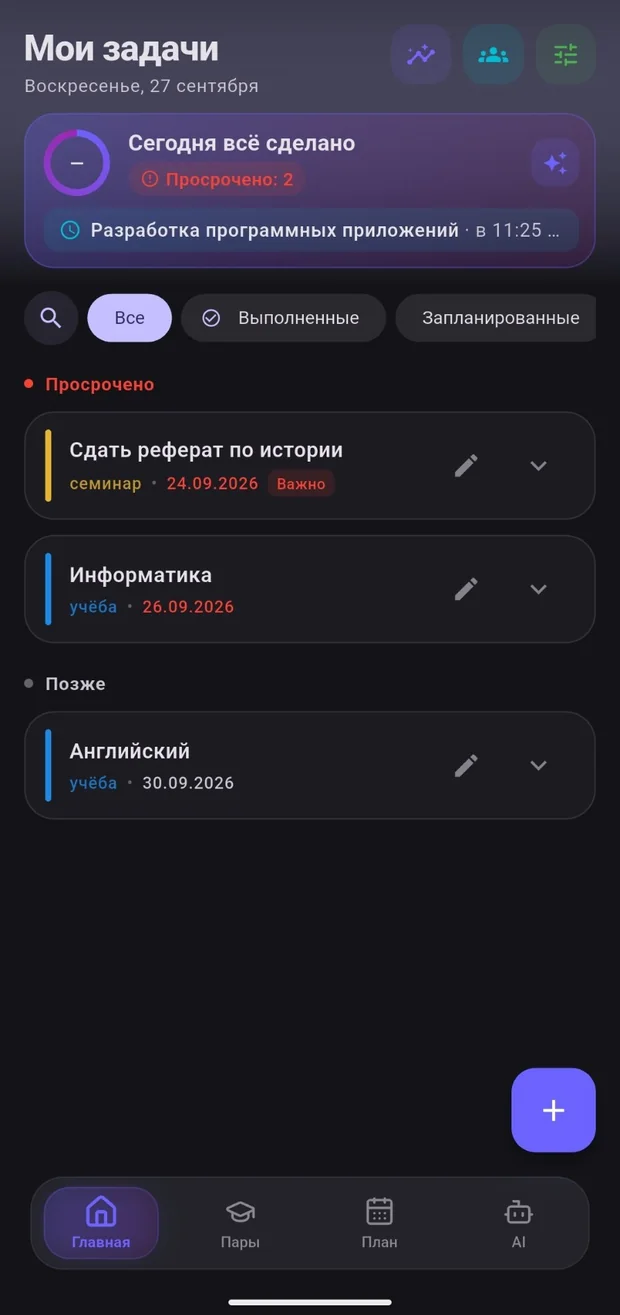
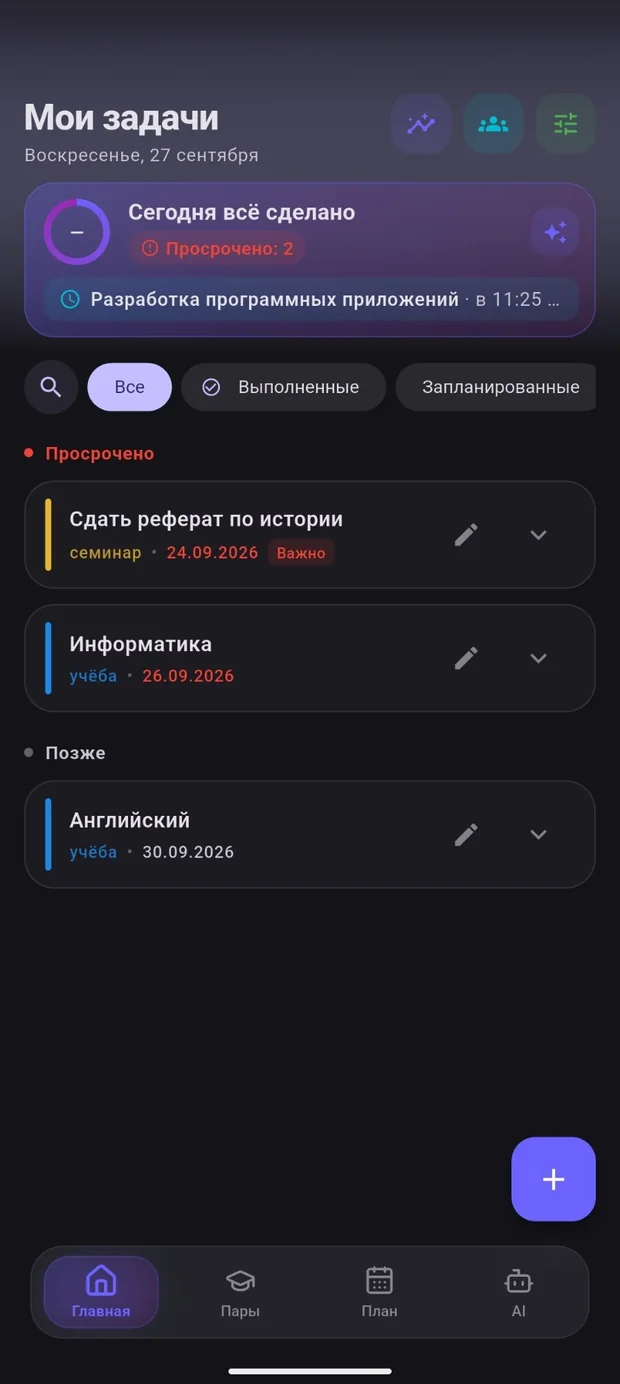
Новые скриншоты приложения, строка состояния закрашена
Четыре экрана в «Как это выглядит» заменены свежими: задачи с
просроченными, расписание на субботу, планировщик и ассистент, который
ставит задачу на завтра и показывает её карточкой. Строка состояния
телефона закрашена фоном экрана, как в ролике на первом экране.

diff --git a/index.html b/index.html
@@ -354,25 +354,25 @@
     <div class="shots">
       <div class="shot-slot">
         <figure class="shot">
-          <img src="assets/tasks.webp" alt="Экран «Мои задачи»: просроченные задачи и задачи на потом" loading="lazy" width="620" height="1315">
+          <img src="assets/tasks.webp" alt="Экран «Мои задачи»: просроченные задачи и задачи на потом" loading="lazy" width="620" height="1384">
           <figcaption>Мои задачи</figcaption>
         </figure>
       </div>
       <div class="shot-slot">
         <figure class="shot">
-          <img src="assets/schedule.webp" alt="Расписание пар группы на субботу" loading="lazy" width="620" height="1315">
+          <img src="assets/schedule.webp" alt="Расписание пар группы на субботу" loading="lazy" width="620" height="1384">
           <figcaption>Расписание вуза</figcaption>
         </figure>
       </div>
       <div class="shot-slot">
         <figure class="shot">
-          <img src="assets/planner.webp" alt="Планировщик: неделя и задачи на выбранный день" loading="lazy" width="620" height="1315">
+          <img src="assets/planner.webp" alt="Планировщик: неделя и задачи на выбранный день" loading="lazy" width="620" height="1384">
           <figcaption>Планировщик</figcaption>
         </figure>
       </div>
       <div class="shot-slot">
         <figure class="shot">
-          <img src="assets/assistant.webp" alt="Чат с ассистентом: задача создаётся по одной фразе и сразу видна карточкой" loading="lazy" width="620" height="1315">
+          <img src="assets/assistant.webp" alt="Чат с ассистентом: задача создаётся по одной фразе и сразу видна карточкой" loading="lazy" width="620" height="1384">
           <figcaption>Ассистент</figcaption>
         </figure>
       </div>
